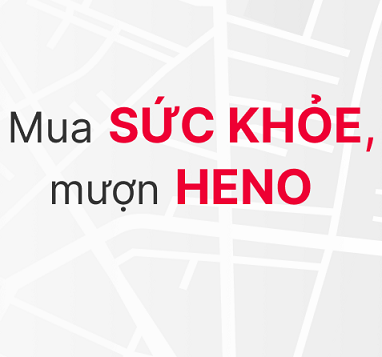
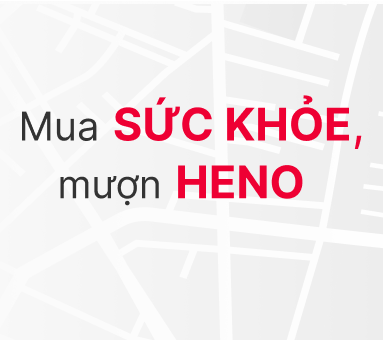
add img

diff --git a/src/app/app.component.html b/src/app/app.component.html
@@ -27,7 +27,7 @@
   </div>
 </header>
 <main class="container-fluid">
-  <div class="banner d-flex row">
+  <div class="banner d-flex row justify-content-center align-items-center">
     <picture>
       <source
         media="(max-width: 567px)"
